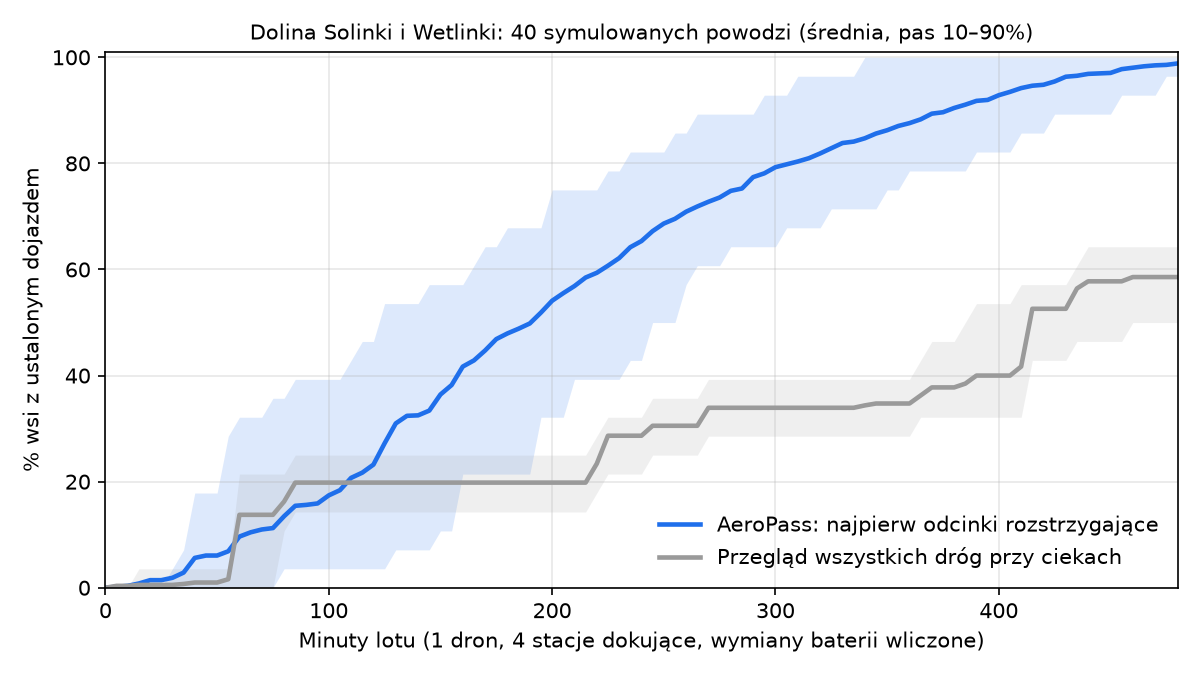
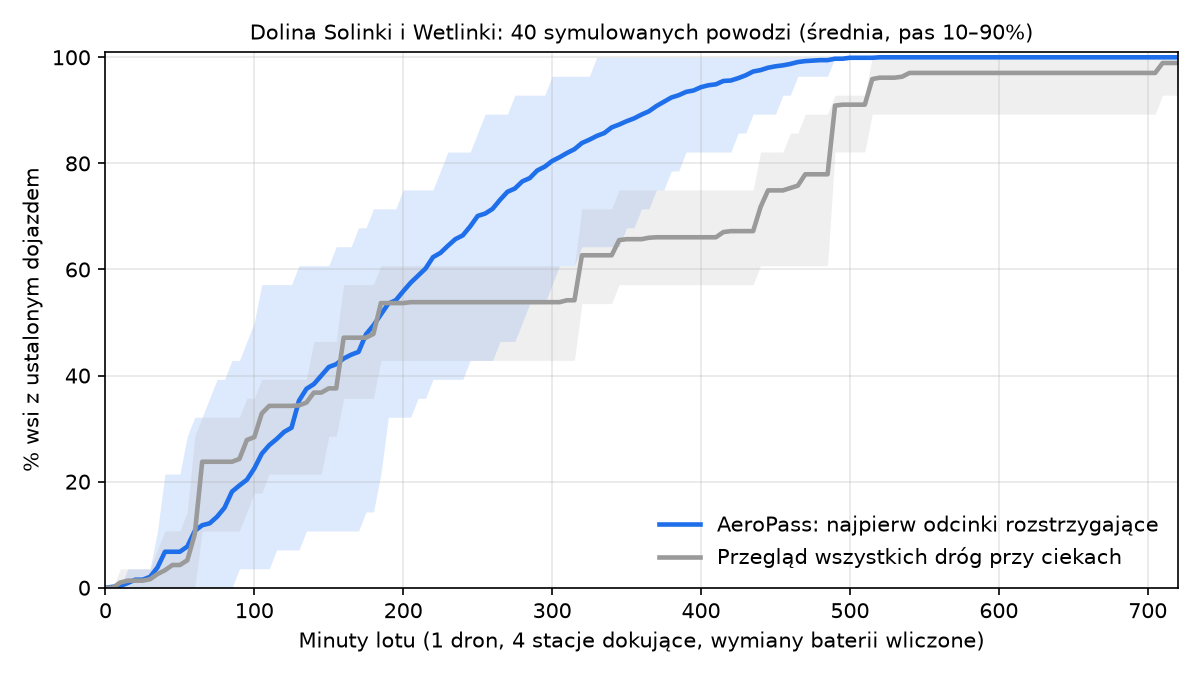
Monte Carlo: oś do 12 h; polskie nazwy typów dróg zmieniają podział na odcinki

diff --git a/planer/monte_carlo.py b/planer/monte_carlo.py
@@ -172,7 +172,7 @@ def na_siatke(krzywa, minuty):
 
 def main(n):
     swiat = Swiat()
-    minuty = list(range(0, 481, 5))
+    minuty = list(range(0, 721, 5))
     wyniki = {"A": [], "B": []}
     czasy = {"A": {"90": [], "100": []}, "B": {"90": [], "100": []}}
     for s in range(n):
